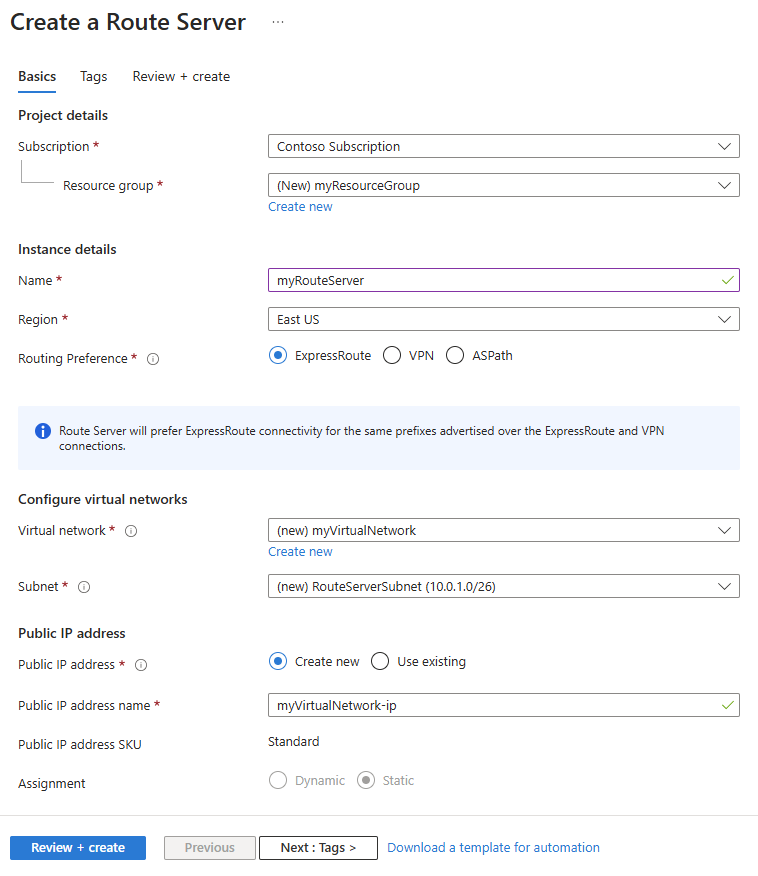
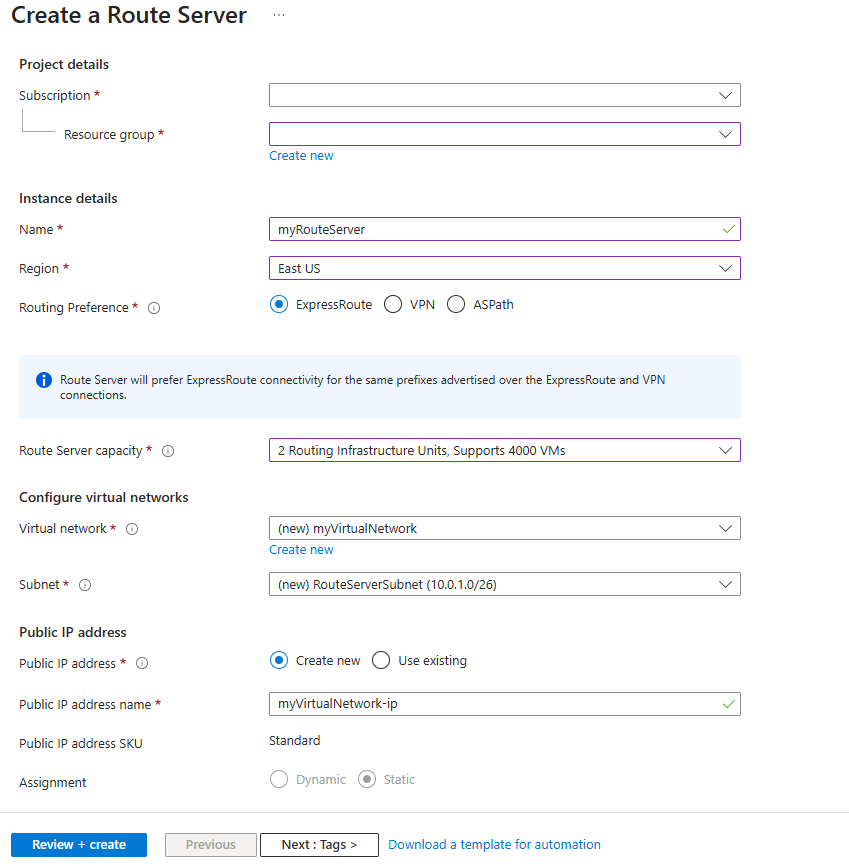
created new article

diff --git a/articles/route-server/route-server-capacity.md b/articles/route-server/route-server-capacity.md
@@ -1,0 +1,101 @@
+---
+title: Azure Route Server Capacity
+titleSuffix: Azure Route Server
+description: Learn how to configure capacity for your Azure Route Server based on the number of VMs deployed
+author: siddomala
+ms.author: siddomala
+ms.service: azure-route-server
+ms.topic: concept-article
+ms.date: 10/31/2025
+
+#CustomerIntent: As an Azure administrator, I want to understand how to configure Route Server's capacity based on the number of VMs I have deployed. 
+---
+
+# <a name="capacity"></a>Virtual hub capacity
+
+By default, a Route Server is deployed with a capacity of 2 routing infrastructure units. This supports 4,000 connected VMs deployed in Route Server's virtual network and all peered virtual networks. 
+
+You can specify additional routing infrastructure units to increase Route Server's capacity in increments of 1,000 VMs. This feature gives you the ability to secure upfront capacity without having to wait for the Route Server to scale out when more VMs are needed. The scale unit on which the Route Server is created becomes the minimum capacity. 
+
+
+When increasing Route Server's capacity, Route Server will continue to support the number of VMs at its current capacity until the scale out is complete. It may take up to 25 minutes for Route Server to scale out to additional routing infrastructure units. 
+
+> [!NOTE]
+> Regardless of the virtual hub's capacity, the hub can only accept a maximum of 10,000 routes from its connected resources (virtual networks, branches, other virtual hubs, etc).
+>
+
+## Edit Route Server capacity
+
+Adjust Route Server's capacity when you need to support additional virtual machines.
+
+To add additional Route Server capacity, go to the **Configuration** blade under Azure portal, and adjust the number of Routing infrastructure units using the dropdown, then **Save**.
+
+## Autoscaling
+The virtual hub router supports autoscaling based on spoke VM utilization. See [Azure Route Server Monitoring](monitor-route-server.md) for how to monitor your Route Server's routing infrastructure units and spoke VM utilization. 
+
+As the spoke VM utilization changes over time, the autoscaling algorithm dynamically adjusts the number of routing infrastructure units. It ensures the Route Server can handle the number of deployed VMs by selecting the greater value between the minimum routing infrastructure units you specify and the units required to support the current number of VMs.
+
+Autoscaling is not instantaneous. For improved infrastructure availability and performance, ensure that your minimum provisioned routing infrastructure units (RIUs) match the requirements of your workloads. Autoscaling won't reduce the provisioned RIUs below this minimum.
+
+### Routing infrastructure unit table
+
+For pricing information, see [Azure Virtual WAN pricing](https://azure.microsoft.com/pricing/details/virtual-wan/).
+
+| Routing infrastructure unit | Number of VMs |
+|----------------------------|---------------|
+| 2                          | 2,000         |
+| 3                          | 3,000         |
+| 4                          |  4,000        |
+| 5                          |  5,000         |
+| 6                          |  6,000         |
+| 7                          |  7,000         |
+| 8                          | 8,000         |
+| 9                          |  9,000         |
+| 10                         |  10,000        |
+| 11                         | 11                          | 11,000        |
+| 12                         | 12                          | 12,000        |
+| 13                         | 13                          | 13,000        |
+| 14                         | 14                          | 14,000        |
+| 15                         | 15                          | 15,000        |
+| 16                         | 16                          | 16,000        |
+| 17                         | 17                          | 17,000        |
+| 18                         | 18                          | 18,000        |
+| 19                         | 19                          | 19,000        |
+| 20                         | 20                          | 20,000        |
+| 21                         | 21                          | 21,000        |
+| 22                         | 22                          | 22,000        |
+| 23                         | 23                          | 23,000        |
+| 24                         | 24                          | 24,000        |
+| 25                         | 25                          | 25,000        |
+| 26                         | 26                          | 26,000        |
+| 27                         | 27                          | 27,000        |
+| 28                         | 28                          | 28,000        |
+| 29                         | 29                          | 29,000        |
+| 30                         | 30                          | 30,000        |
+| 31                         | 31                          | 31,000        |
+| 32                         | 32                          | 32,000        |
+| 33                         | 33                          | 33,000        |
+| 34                         | 34                          | 34,000        |
+| 35                         | 35                          | 35,000        |
+| 36                         | 36                          | 36,000        |
+| 37                         | 37                          | 37,000        |
+| 38                         | 38                          | 38,000        |
+| 39                         | 39                          | 39,000        |
+| 40                         | 40                          | 40,000        |
+| 41                         | 41                          | 41,000        |
+| 42                         | 42                          | 42,000        |
+| 43                         | 43                          | 43,000        |
+| 44                         | 44                          | 44,000        |
+| 45                         | 45                          | 45,000        |
+| 46                         | 46                          | 46,000        |
+| 47                         | 47                          | 47,000        |
+| 48                         | 48                          | 48,000        |
+| 49                         | 49                          | 49,000        |
+| 50                         | 50                          | 50,000        |
+
+
+## Next steps
+
+- [Configure routing preference in Azure Route Server](configure-route-server.md#configure-routing-preference)
+- [Learn about Azure Route Server support for ExpressRoute and VPN](expressroute-vpn-support.md)
+- [Monitor Azure Route Server](monitor-route-server.md)

diff --git a/articles/route-server/monitor-route-server.md b/articles/route-server/monitor-route-server.md
@@ -68,6 +68,8 @@ The following table describes the metrics available for Azure Route Server monit
 | [BGP Peer Status](#bgp) | Scalability | Count | Maximum | BGP availability from Route Server to Peer | BGP Peer IP, BGP Peer Type, Route Server Instance | Yes |
 | [Count of Routes Advertised to Peer](#advertised) | Scalability | Count | Maximum | Count of routes advertised from Route Server to Peer | BGP Peer IP, BGP Peer Type, Route Server Instance | Yes |
 | [Count of Routes Learned from Peer](#received) | Scalability | Count | Maximum | Count of routes learned from Peer | BGP Peer IP, BGP Peer Type, Route Server Instance | Yes | 
+| [Routing Infrastructure Units] | Scalability | Count | Maximum | Total number of routing infrastructure units, which represents Route Server's capacity | <none> | No | 
+| [Spoke VM Utilization] | Scalability | Percent | Maximum | Number of deployed spoke VMs as a percentage of the total number of spoke VMs that Route Server's routing infrastructure units can support | <none> | No | 
 
 > [!IMPORTANT]
 > Azure Monitor includes a metric called **Data Processed by the Virtual Hub Router** that appears in Route Server monitoring. This metric doesn't apply to Route Server and should be ignored when monitoring your deployment.

diff --git a/articles/route-server/quickstart-create-route-server-portal.md b/articles/route-server/quickstart-create-route-server-portal.md
@@ -51,6 +51,7 @@ This section walks you through creating Azure Route Server using the Azure porta
     | Name | Enter **myRouteServer**. |
     | Region | Select **East US** or any region you prefer to create the Route Server in. |
     | Routing Preference | Select **ExpressRoute**. Other available options: **VPN** and **ASPath**. |
+    | Route Server capacity | Select from the dropdown. For more information, see [Route Server Capacity](/azure/route-server/route-server-capacity.md). |
     | **Configure virtual networks** |  |
     | Virtual network | Select **Create new**. <br>In **Name**, enter **myVirtualNetwork**. <br>In **Address range**, enter **10.0.0.0/16**. <br>In **Subnet name** and **Address range**, enter **RouteServerSubnet** and **10.0.1.0/26** respectively. <br>Select **OK**. |
     | Subnet | Once you created the virtual network and subnet, the **RouteServerSubnet** populates. <br>- The subnet must be named **RouteServerSubnet**.<br>- The subnet must be a minimum of /26 or larger. |
